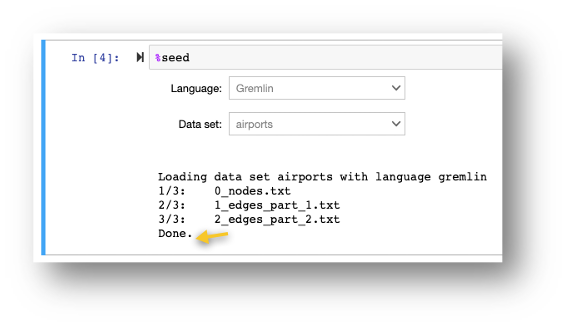
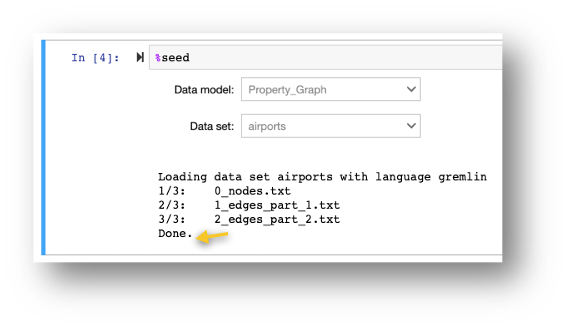
resolving conflict (#470)

Changed region(s): [[0.2993, 0.2128, 0.7482, 0.304], [0.2993, 0.3343, 0.7482, 0.4255]]

diff --git a/athena-neptune/docs/neptune-cluster-setup/README.md b/athena-neptune/docs/neptune-cluster-setup/README.md
@@ -21,7 +21,10 @@ Once there, launch the “Air-Routes-Gremlin.ipynb” notebook under “Neptune 
 Run through first three steps of Notebook Version, Configuration and Neptune cluster status check.
 ![](./assets/Notebook-3.png)
 
-Now let’s load some sample data into our Neptune cluster by using the “%seed” step, select “Language” as “Gremlin” and “Data set” as “airports” and click “Submit”. 
+You can skip the step that says "Using a different endpoint". It's applicable only if you want to use a different Neptune endpoint.
+
+Now let’s load some sample data into our Neptune cluster by using the “%seed” step, select “Data model” as “Property_Graph” and “Data set” as “airports” and click “Submit”. 
+
 ![](./assets/Notebook-4.png)
 
 You can monitor the load status from the notebook itself. Once the data load is complete, you should see the “Done” status.
